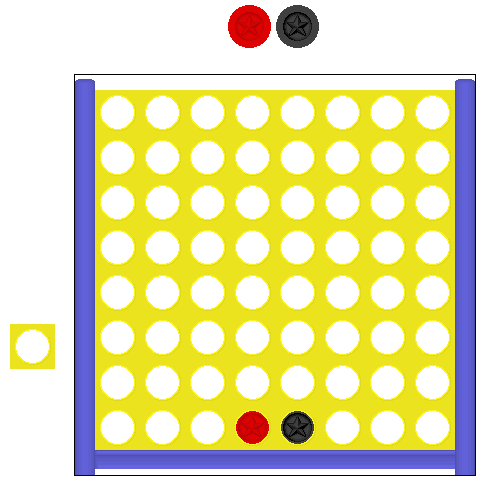
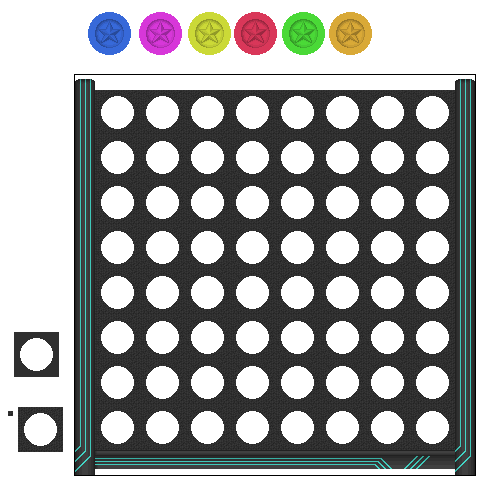
Update Game Images

diff --git a/BlazorFourInARow/wwwroot/css/site.min.css b/BlazorFourInARow/wwwroot/css/site.min.css
@@ -1,1 +1,1 @@
-@import url("open-iconic/font/css/open-iconic-bootstrap.min.css");html,body{font-family:'Helvetica Neue',Helvetica,Arial,sans-serif;}.game-board{border:25px solid transparent;border-image:url(/images/frame-border.png) 33% repeat;image-rendering:auto;image-rendering:crisp-edges;image-rendering:pixelated;margin-top:5rem;}@media screen and (min-width:500px){.game-board{border:50px solid transparent;border-image:url(/images/frame-border.png) 33% repeat;}}.game-board .buttons{top:-6rem;}.game-board .buttons li{flex-shrink:1;overflow:hidden;word-break:break-all;}.game-board li{margin:auto;}.game-board li.cell{background-image:url(/images/game-cell.png);background-size:contain;height:auto;flex:1 0 auto;image-rendering:pixelated;display:flex;}.game-board li.cell:before{content:'';float:left;padding-top:100%;}.game-board li .game-piece{width:100%;display:block;background-size:contain;image-rendering:pixelated;z-index:-1;}.game-board li .game-piece.Red{background-image:url(/images/red-game-piece.png);}.game-board li .game-piece.Black{background-image:url(/images/black-game-piece.png);}
+@import url("open-iconic/font/css/open-iconic-bootstrap.min.css");html,body{font-family:'Helvetica Neue',Helvetica,Arial,sans-serif;}.game-board{border:25px solid transparent;border-image:url(/images/frame-border.png) 33% repeat;image-rendering:auto;image-rendering:crisp-edges;image-rendering:pixelated;margin-top:5rem;}@media screen and (min-width:500px){.game-board{border:50px solid transparent;border-image:url(/images/frame-border.png) 33% repeat;}}.game-board .buttons{top:-6rem;}.game-board .buttons li{flex-shrink:1;overflow:hidden;word-break:break-all;}.game-board li{margin:auto;}.game-board li.cell{background-image:url(/images/game-cell.png);background-size:contain;height:auto;flex:1 0 auto;image-rendering:pixelated;display:flex;}.game-board li.cell:before{content:'';float:left;padding-top:100%;}.game-board li .game-piece{width:100%;display:block;background-size:contain;image-rendering:pixelated;z-index:-1;}.game-board li .game-piece.Red{background-image:url(/images/red-game-piece.png);}.game-board li .game-piece.Black{background-image:url(/images/black-game-piece.png);}.game-board li .game-piece.Green{background-image:url(/images/green-game-piece.png);}.game-board li .game-piece.Blue{background-image:url(/images/blue-game-piece.png);}

diff --git a/BlazorFourInARow/Shared/site.scss b/BlazorFourInARow/Shared/site.scss
@@ -51,7 +51,6 @@ html, body {
             display: block;
             background-size: contain;
             image-rendering: pixelated;
-
             z-index: -1;
 
             &.Red {
@@ -60,6 +59,14 @@ html, body {
 
             &.Black {
                 background-image: url(/images/black-game-piece.png);
+            }
+
+            &.Green {
+                background-image: url(/images/green-game-piece.png);
+            }
+
+            &.Blue {
+                background-image: url(/images/blue-game-piece.png);
             }
         }
     }

diff --git a/BlazorFourInARow/wwwroot/css/site.css b/BlazorFourInARow/wwwroot/css/site.css
@@ -42,6 +42,10 @@ html, body {
         background-image: url(/images/red-game-piece.png); }
       .game-board li .game-piece.Black {
         background-image: url(/images/black-game-piece.png); }
+      .game-board li .game-piece.Green {
+        background-image: url(/images/green-game-piece.png); }
+      .game-board li .game-piece.Blue {
+        background-image: url(/images/blue-game-piece.png); }
 
 /*
 app {

diff --git a/BlazorFourInARowFunctions/Game/GameStateBuilder.cs b/BlazorFourInARowFunctions/Game/GameStateBuilder.cs
@@ -89,14 +89,14 @@ namespace BlazorFourInARowFunctions.Game
                 {
                     new Team()
                     {
-                        TeamId = "Red",
-                        DisplayColor = "Red",
+                        TeamId = "Green",
+                        DisplayColor = "Green",
                         Users = new List<User>()
                     },
                     new Team()
                     {
-                        TeamId = "Black",
-                        DisplayColor = "Black",
+                        TeamId = "Blue",
+                        DisplayColor = "Blue",
                         Users = new List<User>()
                     }
                 },
